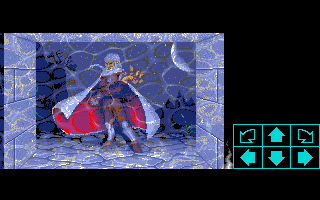
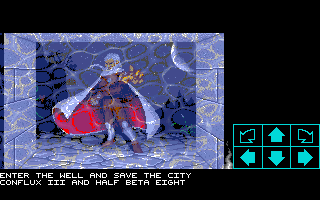
A new game's party enters its start square: its pads pressed, its teleporter taken

Changed region(s): [[0.1562, 0.84, 0.5938, 0.93], [0.0, 0.84, 0.125, 0.93], [0.125, 0.87, 0.1562, 0.9]]

diff --git a/tools/dump-enter-dungeon.ts b/tools/dump-enter-dungeon.ts
@@ -1,0 +1,90 @@
+/**
+ * The boot's start takes a new game's party onto its square: `_ShowPrisonDoor` ends in
+ * `MoveObject(RN(RNnul), -1, 0, d.partyX, d.partyY)` unless the game was resumed
+ * (doc/CSBwin-src/CSBCode.cpp:10803-10806), as a step onto the square would (`Game.start`).
+ * A dungeon can be built on it: Theron's Quest's conversions start the party on a stone
+ * square whose active teleporter sends it into the first room, and Conflux's start square
+ * holds pads. The restart after a lost game (`Code1f9e6.cpp:310-318`) and a resumed game
+ * move nothing.
+ *
+ *   - Conflux: the start square's pads (type 1, "set … once") are pressed: actuator timers
+ *     are queued on the boot's start, none on a plain one or a resumed game's.
+ *   - DM, its start square's teleporter made active: the boot's start takes the party to
+ *     its target, (9,1); a plain start leaves it on (1,3). DM as shipped, its teleporter
+ *     inactive, stays on (1,3).
+ *
+ * Run: `npm test -- --only=dump-enter-dungeon.ts`
+ */
+
+import { readFileSync } from 'node:fs';
+import { DungeonLoader } from '../src/data/DungeonLoader';
+import type { DungeonData } from '../src/data/dungeonTypes';
+import { GraphicsLoader } from '../src/data/GraphicsLoader';
+import type { Game } from '../src/engine/Game';
+import { newGame, stockDungeon, stockGraphics } from './lib/game';
+import { GAMEFILES_DIR } from './lib/dataSets';
+
+let failures = 0;
+function check(ok: boolean, what: string): void {
+  console.log(`${ok ? 'ok  ' : 'FAIL'}  ${what}`);
+  if (!ok) failures++;
+}
+
+const CONFLUX = `${GAMEFILES_DIR}/conflux-3.5-b8`;
+const confluxGraphics = new GraphicsLoader();
+confluxGraphics.loadFromArray(new Uint8Array(readFileSync(`${CONFLUX}/graphics.dat`)));
+const confluxDungeon = (): DungeonData =>
+  new DungeonLoader().loadDungeonDat(new Uint8Array(readFileSync(`${CONFLUX}/dungeon.dat`)));
+
+/** `game` started as `start(enterDungeon)` starts it, the loop stopped before any VBL runs. */
+function started(game: Game, enterDungeon: boolean, resumed = false): Game {
+  if (resumed) game.savedGameRead();
+  game.start(enterDungeon);
+  game.stop();
+  return game;
+}
+
+const where = (game: Game): string => {
+  const { x, y, z } = game.ctx.party.state.position;
+  return `map ${z} (${x},${y})`;
+};
+
+// Conflux: pads on the start square (13,24).
+{
+  const plain = started(newGame(confluxDungeon(), confluxGraphics), false);
+  const boot = started(newGame(confluxDungeon(), confluxGraphics), true);
+  const resumed = started(newGame(confluxDungeon(), confluxGraphics), true, true);
+  const plainTimers = plain.ctx.timers.getTimers().length;
+  const bootTimers = boot.ctx.timers.getTimers().length;
+  const resumedTimers = resumed.ctx.timers.getTimers().length;
+  console.log(`Conflux: timers ${plainTimers} on a plain start, ${bootTimers} on the boot's, ${resumedTimers} on a resumed game's`);
+  check(bootTimers > plainTimers, "Conflux: the boot's start presses the start square's pads");
+  check(resumedTimers === plainTimers, 'Conflux: a resumed game presses nothing');
+  check(where(boot) === 'map 0 (13,24)', `Conflux: the party stays on its square (${where(boot)})`);
+}
+
+// DM: the start square (1,3) holds a teleporter to (9,1), shipped inactive.
+{
+  const shipped = started(newGame(stockDungeon(), stockGraphics()), true);
+  check(where(shipped) === 'map 0 (1,3)', `DM as shipped: the inactive teleporter leaves the party on (1,3) (${where(shipped)})`);
+
+  const active = (): Game => {
+    const game = newGame(stockDungeon(), stockGraphics());
+    const map = game.ctx.dungeon.getMap(0);
+    if (!map) throw new Error('DM has no map 0');
+    map.cellFlags[1][3] |= 0x08; // `TELEPORTER` active (`CSBTypes.h`)
+    return game;
+  };
+  const plain = started(active(), false);
+  const boot = started(active(), true);
+  const resumed = started(active(), true, true);
+  check(where(plain) === 'map 0 (1,3)', `active teleporter, plain start: the party stays on (1,3) (${where(plain)})`);
+  check(where(boot) === 'map 0 (9,1)', `active teleporter, the boot's start: the party is sent to (9,1) (${where(boot)})`);
+  check(where(resumed) === 'map 0 (1,3)', `active teleporter, a resumed game: the party stays on (1,3) (${where(resumed)})`);
+}
+
+if (failures > 0) {
+  console.log(`\n${failures} check(s) failed`);
+  process.exit(1);
+}
+console.log('\nall checks passed');

diff --git a/src/engine/Game.ts b/src/engine/Game.ts
@@ -220,9 +220,15 @@ export class Game implements MainLoop {
     }
 
     /**
-     * Start the game loop
+     * Start the game loop. `enterDungeon` is the boot's start, `_ShowPrisonDoor`
+     * (doc/CSBwin-src/CSBCode.cpp:10780-10811): a new game, not a resumed one, then takes
+     * the party onto its square, `MoveObject(RN(RNnul), -1, 0, d.partyX, d.partyY)`
+     * (`:10803-10806`), as a step onto it would: a teleporter there sends it on, a pad
+     * there is pressed. `_TAG021028` loaded the party's level before (`:10615`). The
+     * restart after a lost game calls `GameSetup` and `TAG021028` alone
+     * (`Code1f9e6.cpp:310-318`), and moves nothing.
      */
-    start(): void {
+    start(enterDungeon = false): void {
         if (this.running || this.dead) {
             return;
         }
@@ -230,6 +236,11 @@ export class Game implements MainLoop {
         // `_TAG021028` ends in `TAG0138ec()` and `d.ClockRunning = 1`, and `MainLoop` follows
         // (doc/CSBwin-src/CSBCode.cpp:10672-10673, `:11555`).
         this.tag0138ec();
+        if (enterDungeon && !this.resumedSavedGame) {
+            const { x, y } = this.ctx.party.state.position;
+            this.systems.monsters.loadPartyLevelIfChanged();
+            this.ctx.systems.worldMove.moveParty(-1, 0, x, y);
+        }
         this.running = true;
         this.vblClockStart = Date.now();
         this.vblsPaced = 0;

diff --git a/src/main.ts b/src/main.ts
@@ -522,11 +522,12 @@ function applySettings({ game }: Built, sound: SoundManager, values: SettingsVal
 }
 
 function start(game: Game): void {
-    game.start();
+    // The game is read, new or resumed: where CSBWin's boot forces DM rules, before
+    // `_TAG021028` and the party's entry (doc/CSBwin-src/CSBCode.cpp:10796-10806).
+    game.forceDMRulesAtBoot();
+    game.start(true);
     console.log('✓ Game engine started');
     console.log('✓ Starting position:', game.getPositionInfo());
-    // The game is read, new or resumed: where CSBWin's boot forces DM rules.
-    game.forceDMRulesAtBoot();
 }
 
 /**

diff --git a/doc/PROVEN_FACTS.md b/doc/PROVEN_FACTS.md
@@ -1245,6 +1245,21 @@ Champions) is excluded in exactly these places:
   step is discarded (`:8399`), but without damage. A monster square does not stop it, and
   the step reaches `MoveObject`, which kills the group (next fact).
 
+## A new game's party enters its start square, as a step onto it would
+
+`_ShowPrisonDoor`, the boot, ends with
+`if (d.gameState != GAMESTATE_ResumeSavedGame) MoveObject(RN(RNnul), -1, 0, d.partyX, d.partyY)`
+(`doc/CSBwin-src/CSBCode.cpp:10803-10806`), after `TAG021028` has loaded the party's level
+(`:10615`) and run `TAG0138ec`. The start square's pads are pressed (the championless
+soul's, previous fact) and an active teleporter there sends the party on. A dungeon can be
+built on it: the Theron's Quest conversions start the party on a stone square whose
+invisible teleporter puts it in the first room, and Conflux's start square holds the
+type 1 pads that print its opening text. Only the boot does it: the restart after a lost
+game calls `GameSetup(_25_, 0)` and `TAG021028` alone (`Code1f9e6.cpp:310-318`), and a
+resumed game skips it. The port's is `Game.start(true)`, which `main.ts` calls once, after
+forcing DM rules as `_ShowPrisonDoor` does first (`:10796-10800`);
+`tools/dump-enter-dungeon.ts` asserts it.
+
 ## The party landing on a monster group kills it, champions or not
 
 At the end of `MoveObject` for the party (`object == RNnul`), once the party's final square
